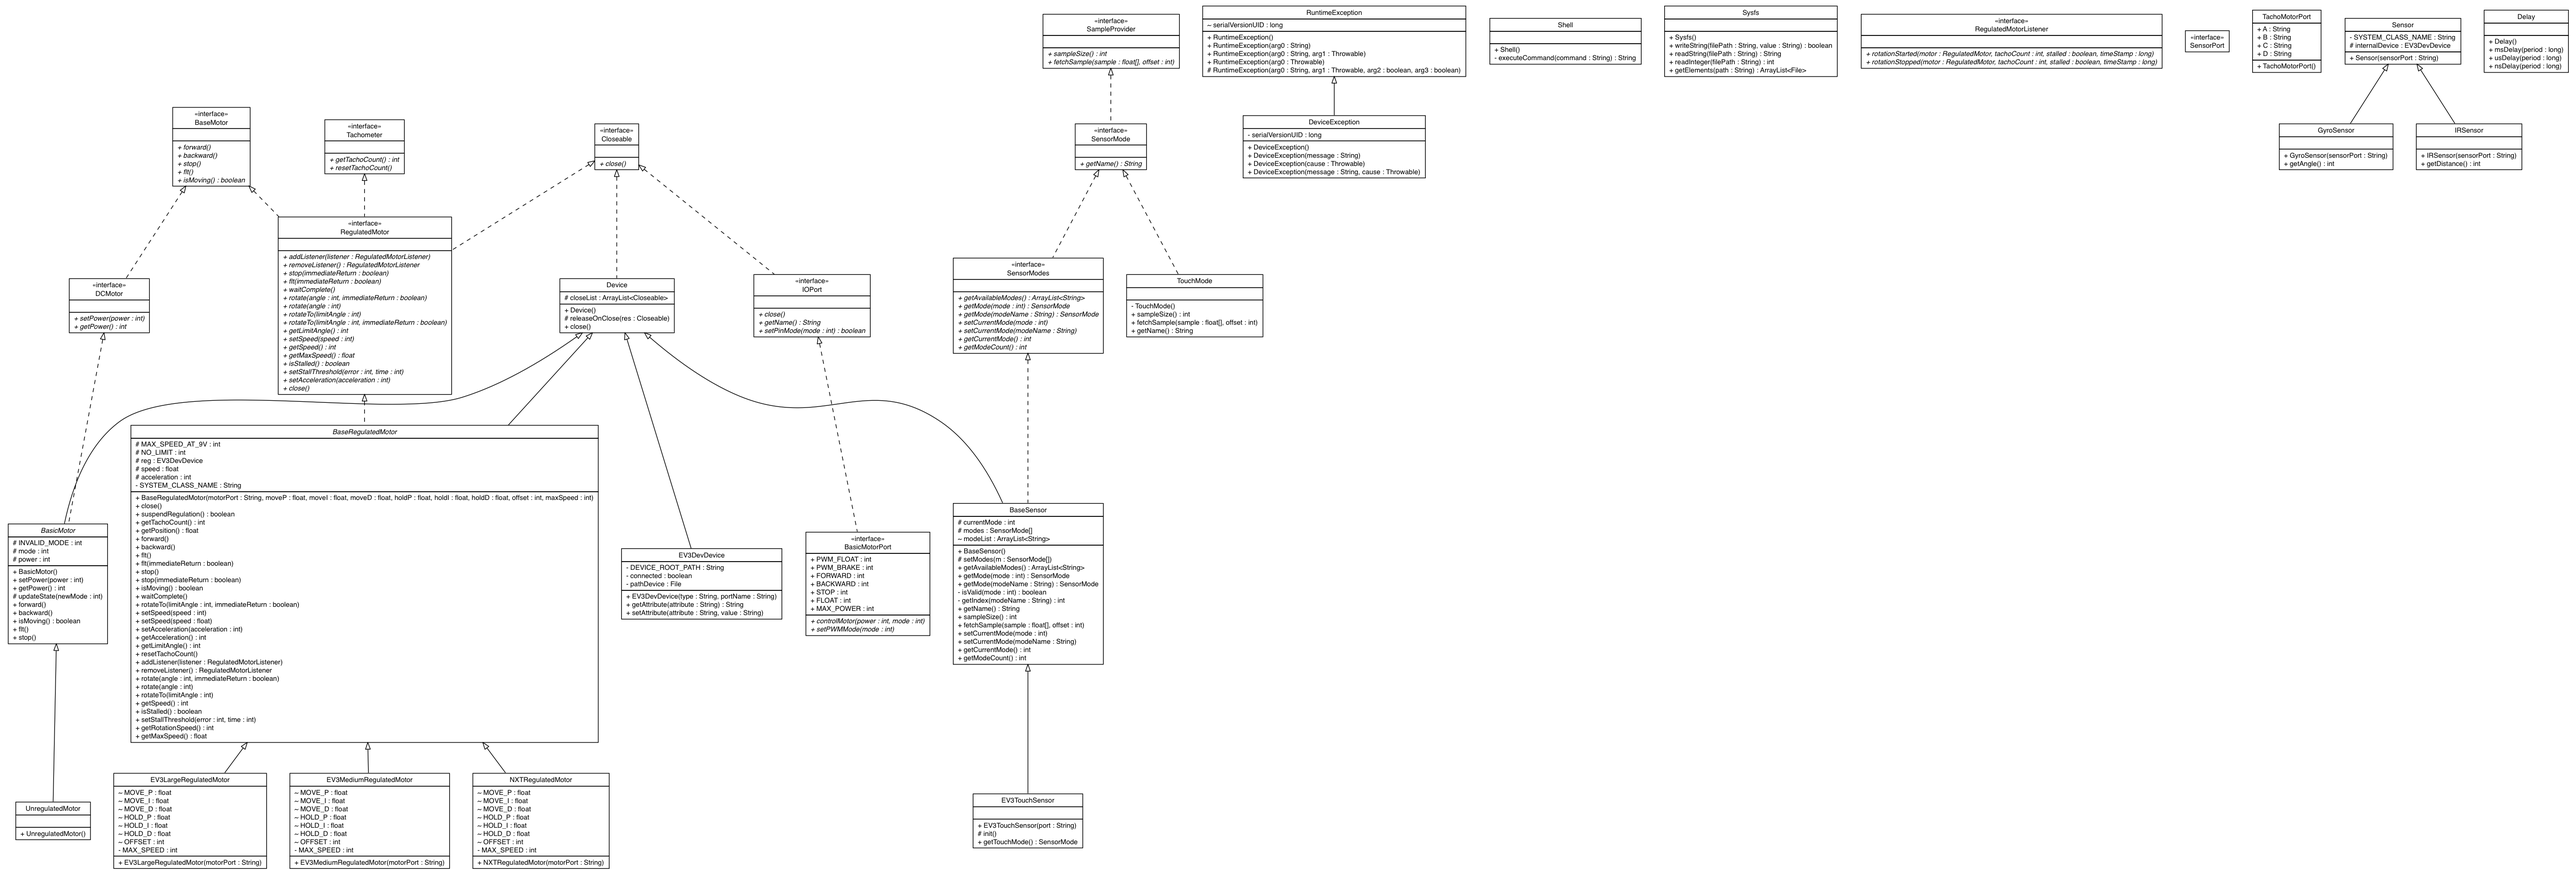
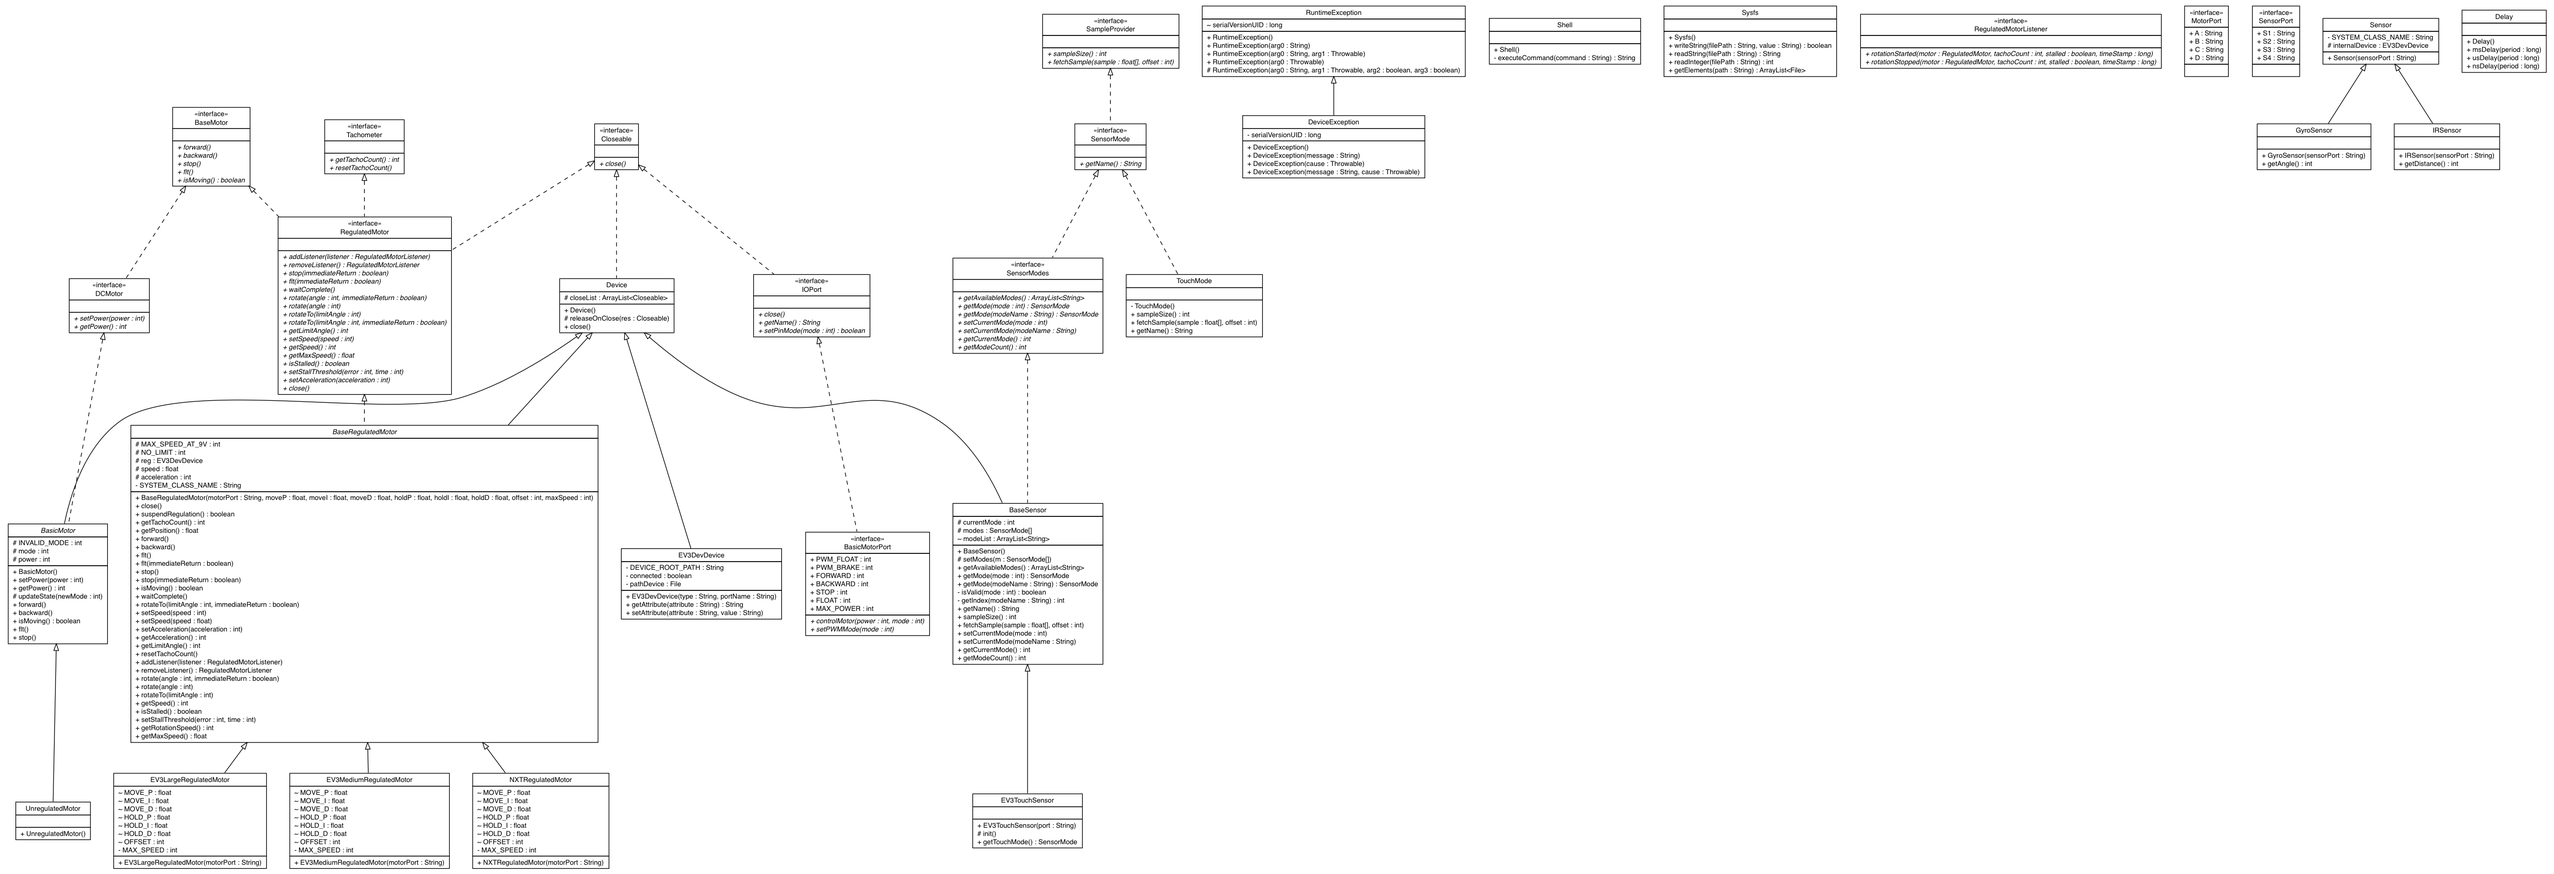
https://github.com/jabrena/ev3dev-lang-java/issues/47

diff --git a/library/src/main/java/ev3dev/test/MotorTest.java b/library/src/main/java/ev3dev/test/MotorTest.java
@@ -1,18 +1,19 @@
 package ev3dev.test;
 
+import ev3dev.hardware.port.MotorPort;
+import ev3dev.hardware.port.SensorPort;
 import ev3dev.hardware.motor.EV3LargeRegulatedMotor;
-import ev3dev.hardware.port.TachoMotorPort;
 import ev3dev.hardware.sensor.ev3.IRSensor;
 
 public class MotorTest {
 
 	public static void main(String[] args) {
 
-		EV3LargeRegulatedMotor mA = new EV3LargeRegulatedMotor(TachoMotorPort.A);
-        EV3LargeRegulatedMotor mB = new EV3LargeRegulatedMotor(TachoMotorPort.B);
+        IRSensor ir1 = new IRSensor(SensorPort.S2);
+		EV3LargeRegulatedMotor mA = new EV3LargeRegulatedMotor(MotorPort.A);
+        EV3LargeRegulatedMotor mB = new EV3LargeRegulatedMotor(MotorPort.B);
         mA.setSpeed(50);
         mB.setSpeed(50);
-        IRSensor ir1 = new IRSensor("in2");
 
         final int distance_threshold = 35;
         final int iteration_threshold = 100;

diff --git a/library/src/main/java/ev3dev/hardware/port/SensorPort.java b/library/src/main/java/ev3dev/hardware/port/SensorPort.java
@@ -2,14 +2,14 @@ package ev3dev.hardware.port;
 
 /**
  * Basic interface for EV3 sensor ports.
- * @author andy
+ * @author Andy
+ * @author Juan Antonio Breña Moral
  *
  */
 public interface SensorPort {
-	/*
-    public static final Port S1 = null; //= BrickFinder.getDefault().getPort("S1");
-    public static final Port S2 = null; //= BrickFinder.getDefault().getPort("S2");
-    public static final Port S3 = null; //= BrickFinder.getDefault().getPort("S3");
-    public static final Port S4 = null; //= BrickFinder.getDefault().getPort("S4");
-	*/
+	
+    public static final String S1 = "in1";
+    public static final String S2 = "in2";
+    public static final String S3 = "in3";
+    public static final String S4 = "in4";
 }

diff --git a/library/src/main/java/ev3dev/hardware/motor/EV3MediumRegulatedMotor.java b/library/src/main/java/ev3dev/hardware/motor/EV3MediumRegulatedMotor.java
@@ -1,8 +1,6 @@
 package ev3dev.hardware.motor;
 
 import ev3dev.hardware.EV3DevDevice;
-import ev3dev.hardware.port.TachoMotorPort;
-
 
 //import lejos.hardware.port.Port;
 //import lejos.hardware.port.TachoMotorPort;

diff --git a/library/src/main/java/ev3dev/hardware/port/MotorPort.java b/library/src/main/java/ev3dev/hardware/port/MotorPort.java
@@ -3,7 +3,7 @@ package ev3dev.hardware.port;
 /*
  * 
  */
-public class TachoMotorPort {
+public interface MotorPort {
 
 	public static final String A = "outA";
 	public static final String B = "outB";

diff --git a/README.md b/README.md
@@ -33,19 +33,20 @@ Example:
 ``` java
 package ev3dev.test;
 
+import ev3dev.hardware.port.MotorPort;
+import ev3dev.hardware.port.SensorPort;
 import ev3dev.hardware.motor.EV3LargeRegulatedMotor;
-import ev3dev.hardware.port.TachoMotorPort;
 import ev3dev.hardware.sensor.ev3.IRSensor;
 
 public class MotorTest {
 
 	public static void main(String[] args) {
 
-		EV3LargeRegulatedMotor mA = new EV3LargeRegulatedMotor(TachoMotorPort.A);
-        EV3LargeRegulatedMotor mB = new EV3LargeRegulatedMotor(TachoMotorPort.B);
+        IRSensor ir1 = new IRSensor(SensorPort.S2);
+		EV3LargeRegulatedMotor mA = new EV3LargeRegulatedMotor(MotorPort.A);
+        EV3LargeRegulatedMotor mB = new EV3LargeRegulatedMotor(MotorPort.B);
         mA.setSpeed(50);
         mB.setSpeed(50);
-        IRSensor ir1 = new IRSensor("in2");
 
         final int distance_threshold = 35;
         final int iteration_threshold = 100;
